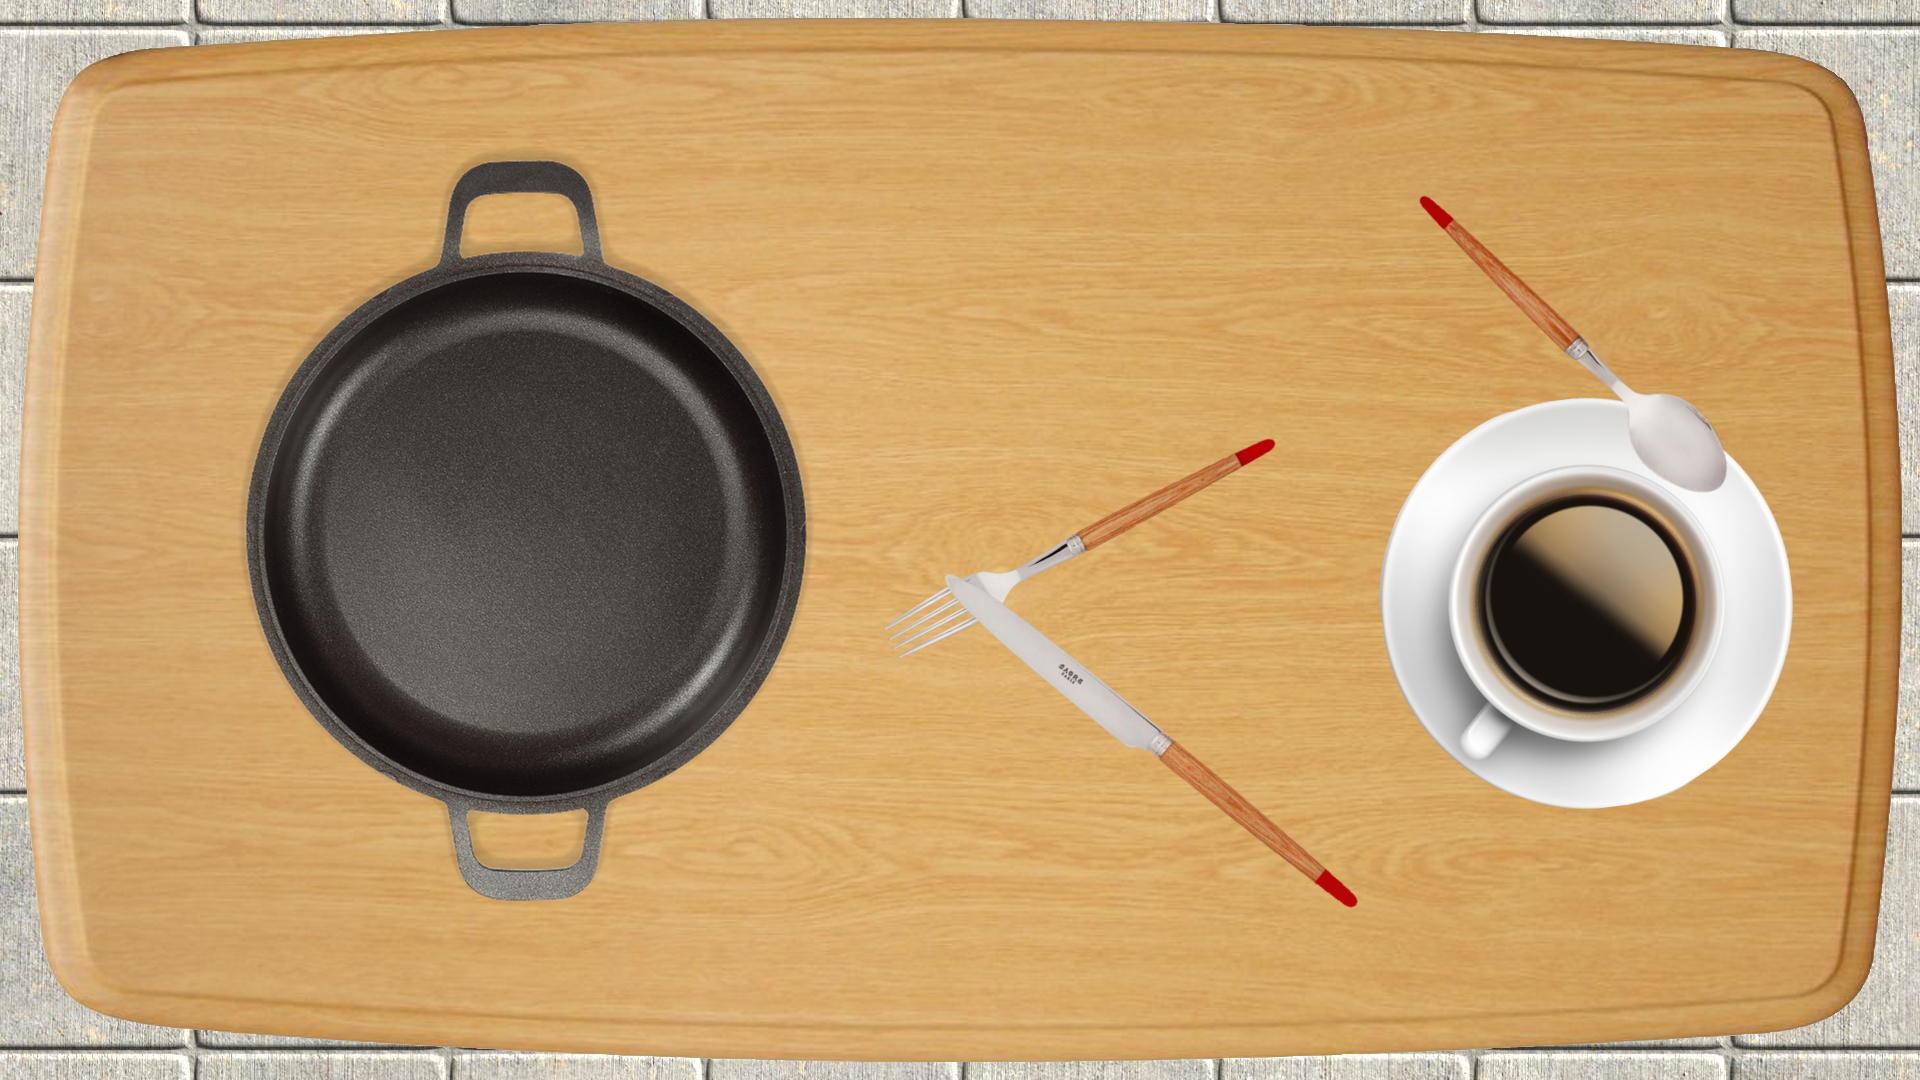
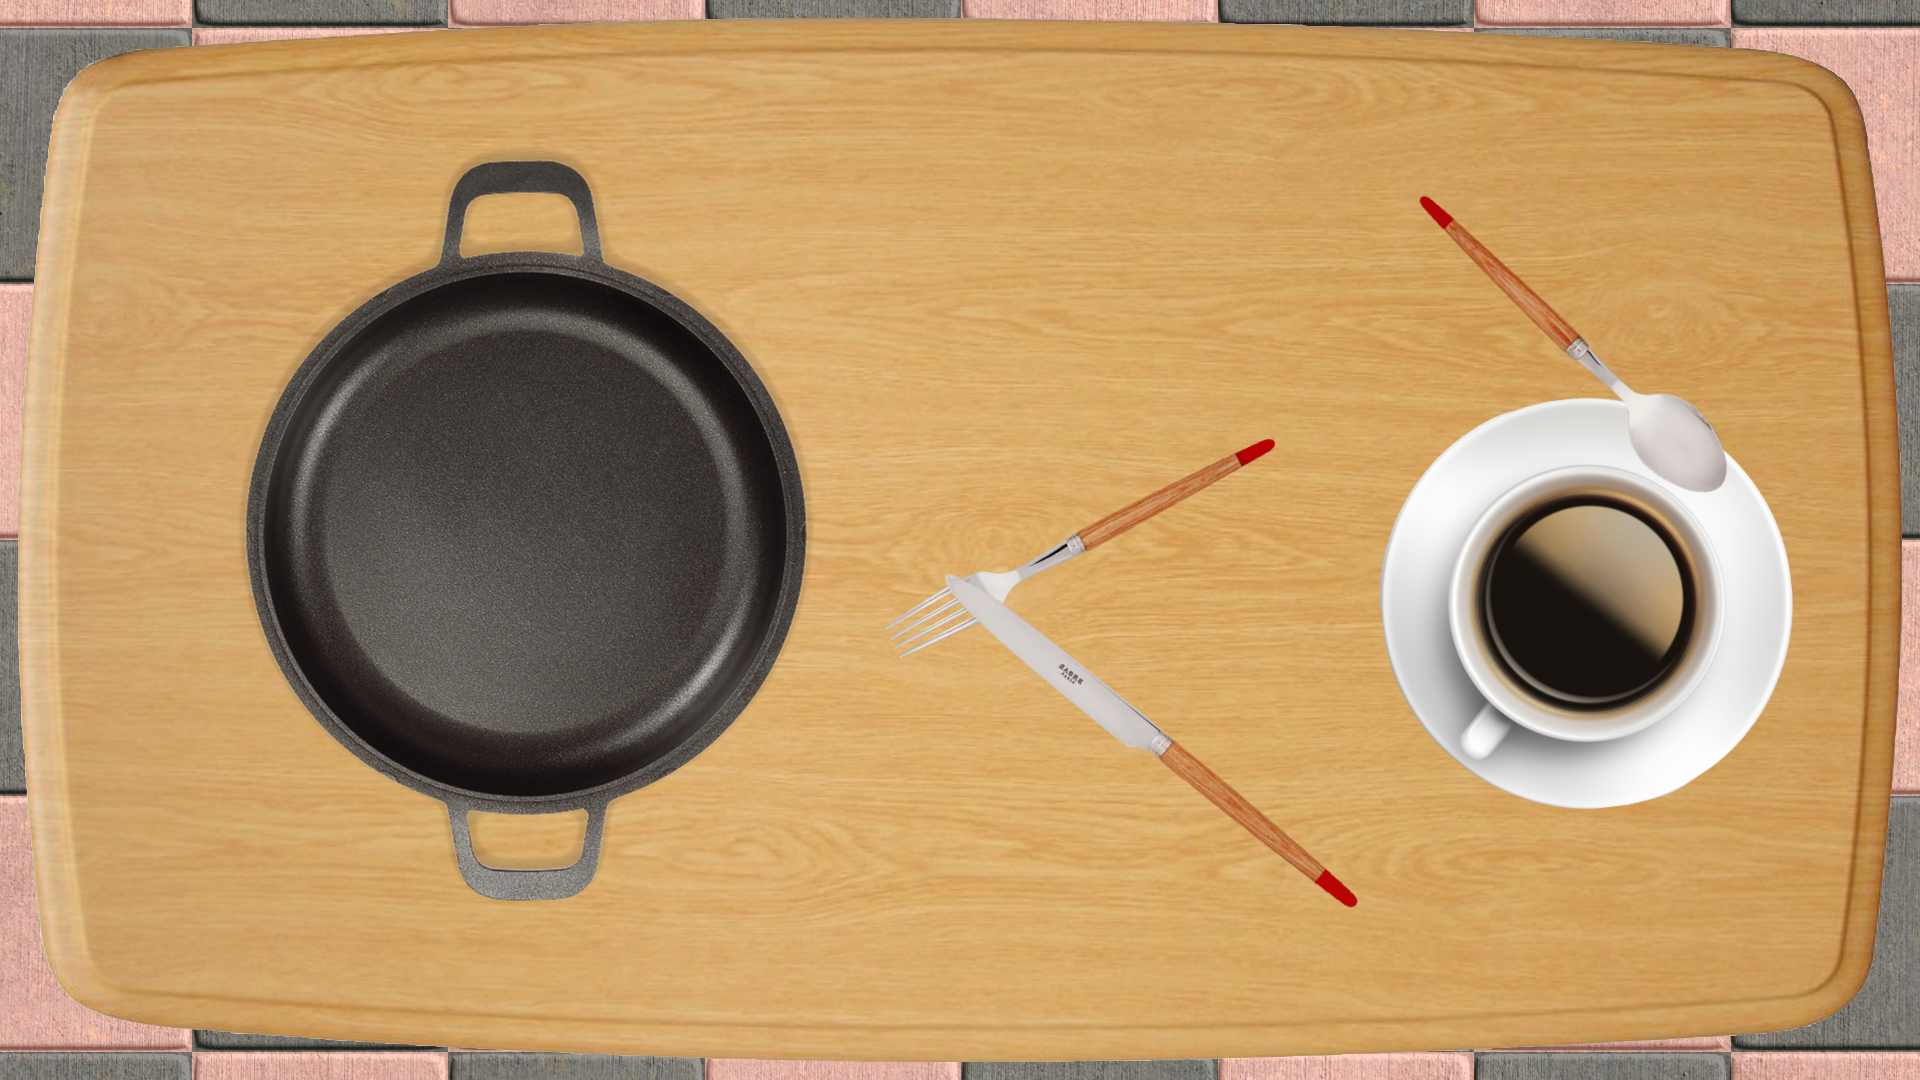
el menu to bueno

Changed region(s): [[0.0, 0.0, 1.0, 1.0]]

diff --git a/menu.cpp b/menu.cpp
@@ -2,12 +2,14 @@
 #include "NoTengoMuffins.hpp"
 
 Menu::Menu() {
-    _start.setPosition(5,5);
-    _exit.setPosition(500,500);
+    _start.setPosition(192,796);
+    _exit.setPosition(961,796);
     _start.turnOn();
     _exit.turnOn();
     _buttons.push_back(&_start);
     _buttons.push_back(&_exit);
+    ASSERT(backg.loadFromFile("Resources/title2.png"));
+    backgSprite.setTexture(backg);
 }
 
 void Menu::update(float deltaTime, sf::RenderWindow*window){
@@ -20,6 +22,7 @@ void Menu::update(float deltaTime, sf::RenderWindow*window){
 }
 
 void Menu::draw(sf::RenderWindow* window){
+    window->draw(backgSprite);
     for(unsigned int i = 0; i < _buttons.size(); ++i){
         window->draw(*_buttons[i]);
     }

diff --git a/menu.h b/menu.h
@@ -18,6 +18,8 @@ class Menu : public Scene{
         Button _start = Button("Resources/buttontejempl.png");
         Button _exit = Button("Resources/buttontejempl2.png");
         std::vector<Button*> _buttons;
+        sf::Texture backg;
+        sf::Sprite backgSprite;
 };
 
 #endif // MENU_H
